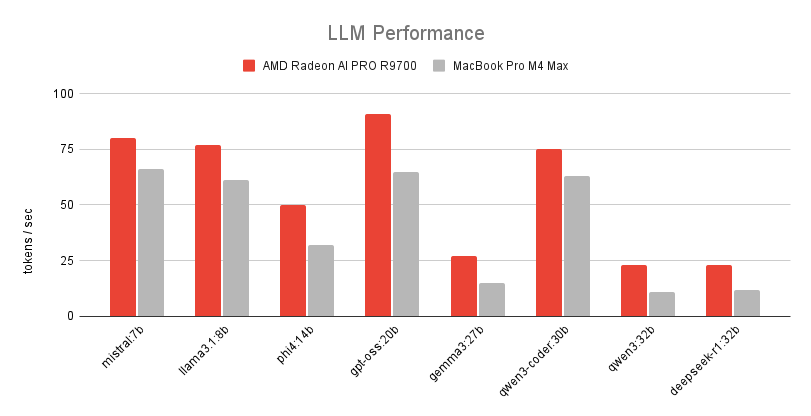
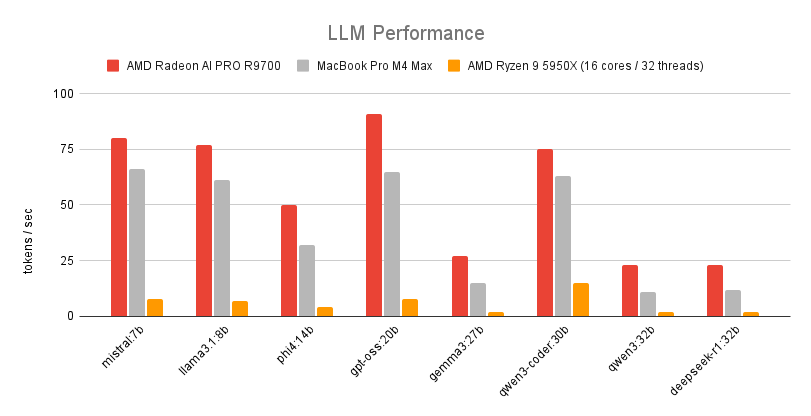
Add the CPU-only LLMs benchmark

diff --git a/_sass/base/_typography.scss b/_sass/base/_typography.scss
@@ -139,16 +139,6 @@ ol {
 ul,
 ol {
 
-  &,
-  ul,
-  ol {
-    margin-left: 1.3em;
-  }
-}
-
-ul,
-ol {
-
   ul,
   ol {
     margin-bottom: 0em;

diff --git a/_posts/2025-11-15-llms-performance-on-amdgpu.md b/_posts/2025-11-15-llms-performance-on-amdgpu.md
@@ -78,7 +78,15 @@ I used the following prompt for testing text generation performance:
 
 `Tell me a story about a brave knight who saves a village from a dragon.`
 
-Here are the benchmark results:
+For vision models that understand images, I used this image with the following prompt:
+
+`What is in this picture?`
+
+![image-example](/assets/images/meefik-at-work.png)
+
+### AMD Radeon AI PRO R9700 (32 GB VRAM, RDNA 4)
+
+Here are the benchmark results for models with text generation only:
 
 | Model            | VRAM usage | Prompt          | Response       |
 |------------------|------------|-----------------|----------------|
@@ -91,13 +99,7 @@ Here are the benchmark results:
 | qwen3:32b        | 21 GB      | 179 tokens/sec  | 23 tokens/sec  |
 | deepseek-r1:32b  | 22 GB      | 99 tokens/sec   | 23 tokens/sec  |
 
-For vision models that understand images, I used this image with the following prompt:
-
-`What is in this picture?`
-
-![image-example](/assets/images/meefik-at-work.png)
-
-Here are the benchmark results:
+For vision models that understand images, here are the results:
 
 | Model            | VRAM usage | Prompt          | Response       |
 |------------------|------------|-----------------|----------------|
@@ -110,7 +112,7 @@ Here are the benchmark results:
 | qwen3-vl:32b     | 26 GB      | 132 tokens/sec  | 24 tokens/sec  |
 | llava:34b        | 22 GB      | 129 tokens/sec  | 24 tokens/sec  |
 
-For comparison, here are the benchmark results for the same models from the MacBook Pro M4 Max (36 GB RAM, 14 cores).
+### MacBook Pro M4 Max (36 GB RAM, 14 cores)
 
 Here are the benchmark results for models with text generation only:
 
@@ -137,6 +139,36 @@ For vision models that understand images, here are the results:
 | gemma3:27b       | 183 tokens/sec  | 18 tokens/sec  |
 | qwen3-vl:32b     | 76 tokens/sec   | 15 tokens/sec  |
 | llava:34b        | 143 tokens/sec  | 16 tokens/sec  |
+
+### AMD Ryzen 9 5950X (16 cores/32 threads)
+
+This is the CPU-only performance without GPU acceleration.
+
+Here are the benchmark results for models with text generation only:
+
+| Model            | Prompt          | Response       |
+|------------------|-----------------|----------------|
+| mistral:7b       | 61 tokens/sec   | 8 tokens/sec   |
+| llama3.1:8b      | 62 tokens/sec   | 7 tokens/sec   |
+| phi4:14b         | 32 tokens/sec   | 4 tokens/sec   |
+| gpt-oss:20b      | 94 tokens/sec   | 8 tokens/sec   |
+| gemma3:27b       | 18 tokens/sec   | 2 tokens/sec   |
+| qwen3-coder:30b  | 79 tokens/sec   | 15 tokens/sec  |
+| qwen3:32b        | 15 tokens/sec   | 2 tokens/sec   |
+| deepseek-r1:32b  | 14 tokens/sec   | 2 tokens/sec   |
+
+For vision models that understand images, here are the results:
+
+| Model            | Prompt          | Response       |
+|------------------|-----------------|----------------|
+| moondream:1.8b   | 293 tokens/sec  | 27 tokens/sec  |
+| gemma3:4b        | 63 tokens/sec   | 7 tokens/sec   |
+| gemma3n:e4b      | 82 tokens/sec   | 10 tokens/sec  |
+| llava:7b         | 65 tokens/sec   | 8 tokens/sec   |
+| qwen3-vl:8b      | 26 tokens/sec   | 6 tokens/sec   |
+| gemma3:27b       | 18 tokens/sec   | 2 tokens/sec   |
+| qwen3-vl:32b     | 10 tokens/sec   | 1 tokens/sec   |
+| llava:34b        | 14 tokens/sec   | 2 tokens/sec   |
 
 ## Conclusion
 
